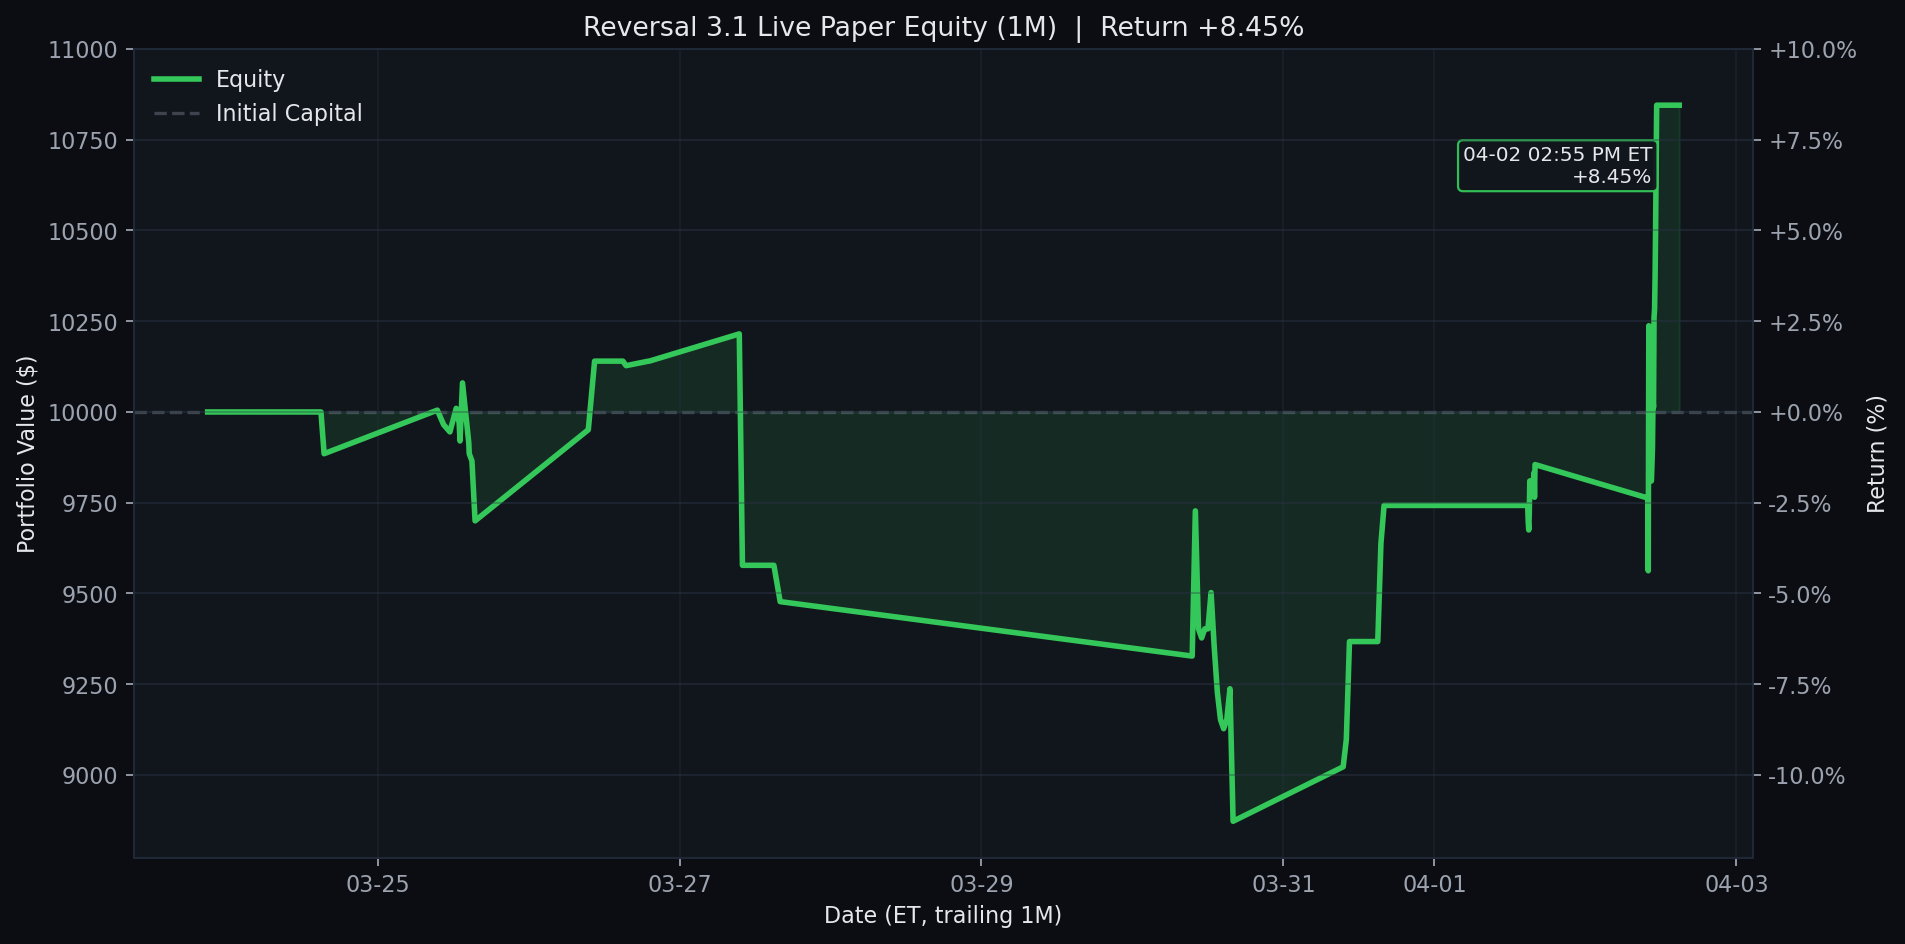
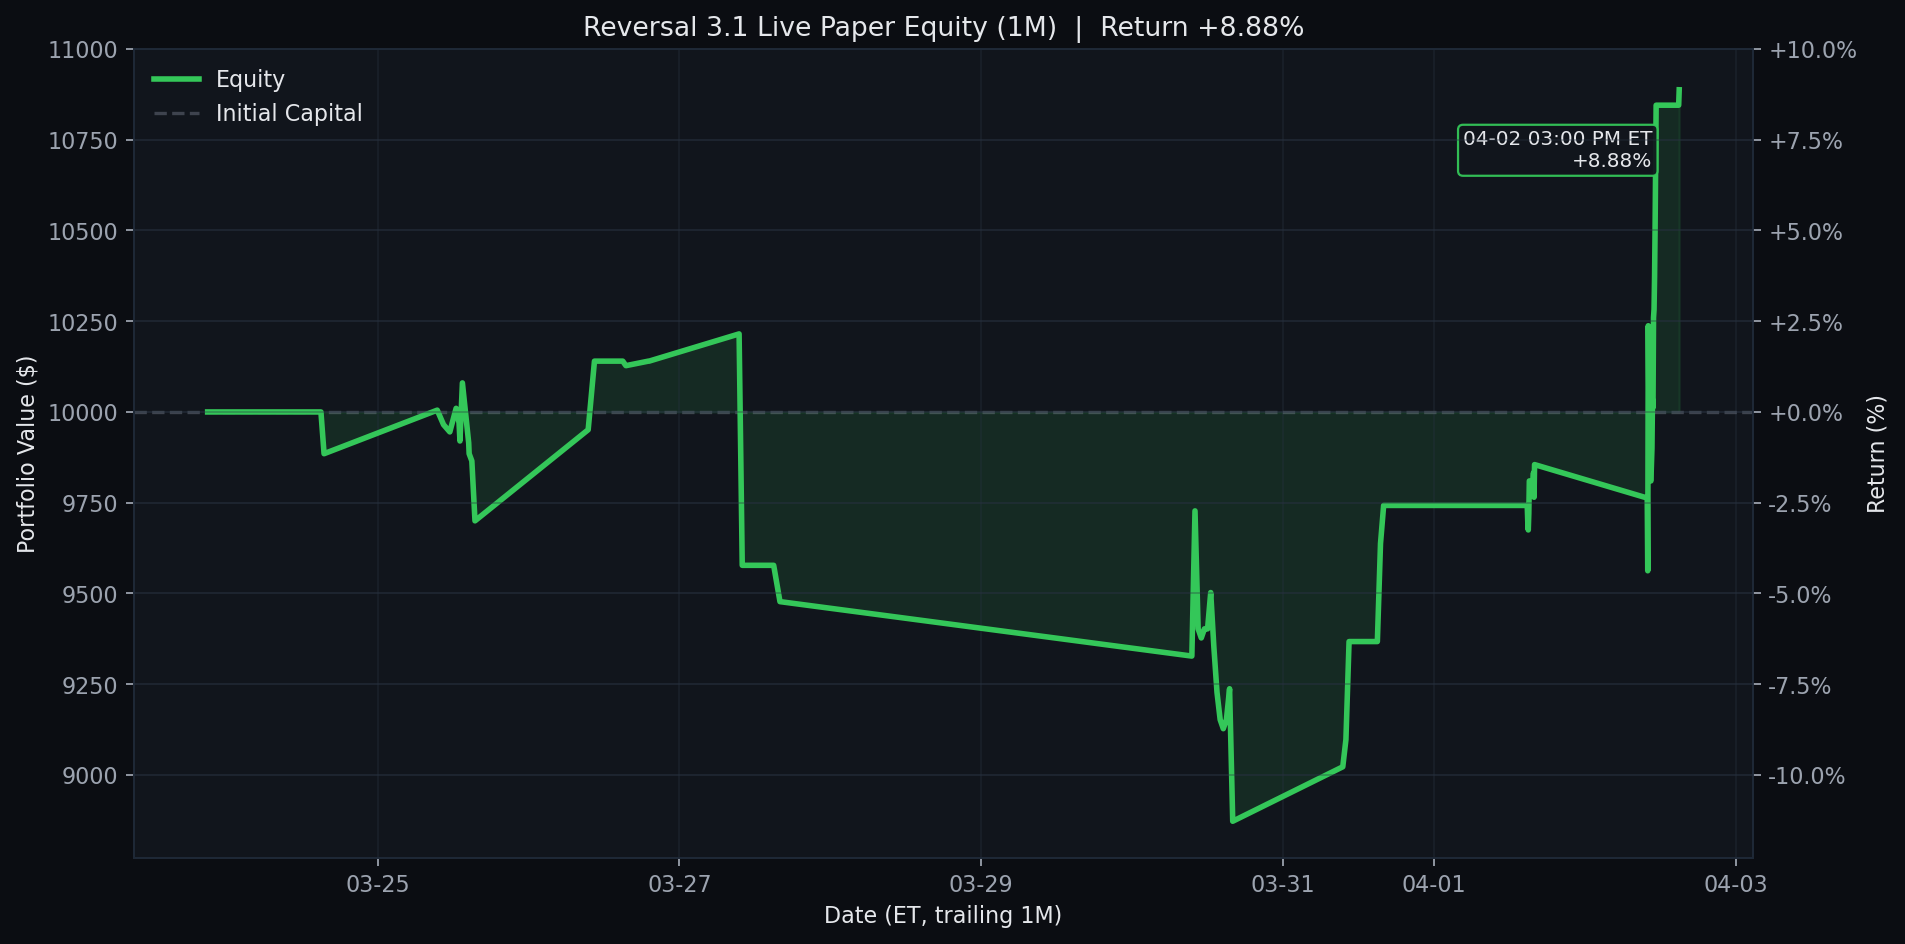
Update Reversal 3.1 live paper test 2026-04-02 15:00 ET

diff --git a/results/reversal_3_1_live/README.md b/results/reversal_3_1_live/README.md
@@ -1,6 +1,6 @@
 # Reversal 3.1 Live Paper Test
 
-Last updated (ET): `2026-04-02 14:55:05 EDT`
+Last updated (ET): `2026-04-02 15:00:05 EDT`
 Last processed slot: `entry_1500`
 
 ## Active Configuration
@@ -20,16 +20,16 @@ Last processed slot: `entry_1500`
 ## Portfolio Snapshot
 
 - Cash: `$8,102.50`
-- Equity: `$10,845.00`
+- Equity: `$10,887.50`
 - Realized PnL: `$845.00`
-- Unrealized PnL: `$0.00`
+- Unrealized PnL: `$42.50`
 - Open positions: `1`
 
 ## Open Positions
 
 ```text
 ticker    contract_symbol entry_trade_date  business_days_held  entry_option_price  current_option_price  entry_spot  current_spot  unrealized_pnl  unrealized_return_pct  success_rate  matched_signals  current_drop_pct  entry_iv_pct  current_iv_pct  rolling_sigma_20d_pct
-   WDC WDC260501C00295000       2026-04-02                   0               27.42                 27.42      294.77        294.87             0.0                    0.0         97.22               36              0.99         81.84            81.9                  91.06
+   WDC WDC260501C00295000       2026-04-02                   0               27.42                 27.85      294.77        294.77            42.5                   1.55         97.22               36              0.99         81.84           83.11                  91.06
 ```
 
 ## Today's Closed Trades (2026-04-02)
@@ -43,24 +43,25 @@ ticker     contract_symbol entry_trade_date_et exit_trade_date_et  entry_option_
 
 ```text
 ticker  success_rate_%  matched_signals  current_drop_%  target_rebound_$  target_price  rolling_sigma_20d_%  call_candidate
-   WDC           97.22               36            0.96              2.00        296.87                91.06            True
-  ASML           91.67               12            3.18             30.28       1346.78                52.01            True
-  CDNS           90.48               42            0.96              1.88        279.38                26.25            True
-  DXCM           90.48               42            0.96              0.42         62.19                31.67            True
-   MAR           89.19               37            0.61              1.43        332.85                28.45            True
-  GILD           88.46               26            0.68              0.66        140.02                21.47            True
-  FAST           86.96               23            1.30              0.42         46.45                21.97            True
-  KLAC           85.71               35            0.94              9.99       1515.56                56.48            True
+   WDC           97.22               36            0.99              2.07        296.84                91.06            True
+  MPWR           91.89               37            0.55              4.32       1117.66                56.57            True
+  ASML           91.67               12            3.18             30.30       1346.78                52.01            True
+  DXCM           90.70               43            0.88              0.39         62.20                31.67            True
+  CDNS           90.48               42            0.93              1.83        279.41                26.25            True
+  ORLY           90.24               41            0.52              0.34         91.96                22.81            True
+  FAST           89.66               29            0.88              0.29         46.51                21.97            True
+   MAR           88.89               36            0.72              1.68        332.74                28.45            True
+  GILD           88.46               26            0.73              0.71        139.99                21.47            True
+  KLAC           87.50               32            1.09             11.58       1514.88                56.48            True
    WBD           85.71               35            0.53              0.10         27.45                11.93            True
-   CSX           85.00               20            0.89              0.26         41.33                27.84            True
- GOOGL           84.21               38            0.64              1.33        296.82                35.66            True
-  AMAT           83.87               31            1.42              3.51        352.30                59.65            True
+   CSX           85.71               21            0.74              0.21         41.35                27.84            True
 ```
 
 ## Recent Events
 
 ```text
                     timestamp_et        slot   event_type                                                                                                                                                                           detail
+2026-04-02T15:00:05.892985-04:00  entry_1500 slot_skipped                                                                                                                                                  {"reason": "already_processed"}
 2026-04-02T14:55:05.878211-04:00  entry_1500 slot_skipped                                                                                                                                                  {"reason": "already_processed"}
 2026-04-02T14:50:05.884978-04:00  entry_1500        entry {"allocated_cash": 2742.5, "contract_symbol": "WDC260501C00295000", "contracts": 1, "entry_option_price": 27.425, "matched_signals": 36, "success_rate": 97.22, "ticker": "WDC"}
 2026-04-02T14:40:05.911687-04:00 manage_1430 slot_skipped                                                                                                                                                  {"reason": "already_processed"}
@@ -70,7 +71,6 @@ ticker  success_rate_%  matched_signals  current_drop_%  target_rebound_$  targe
 2026-04-02T14:10:05.893357-04:00 manage_1400 slot_skipped                                                                                                                                                  {"reason": "already_processed"}
 2026-04-02T14:05:05.889867-04:00 manage_1400 slot_skipped                                                                                                                                                  {"reason": "already_processed"}
 2026-04-02T14:00:05.896681-04:00 manage_1400 slot_skipped                                                                                                                                                  {"reason": "already_processed"}
-2026-04-02T13:55:05.905247-04:00 manage_1400 slot_skipped                                                                                                                                                  {"reason": "already_processed"}
 ```
 
 ## Equity Curves

diff --git a/README.md b/README.md
@@ -3,8 +3,8 @@
 <!-- reversal-3.1-live:start -->
 ## Reversal 3.1 Live Paper Test
 
-- Last updated (ET): `2026-04-02 14:55:05 EDT`
-- Equity: `$10,845.00` | Realized: `$845.00` | Unrealized: `$0.00` | Open positions: `1`
+- Last updated (ET): `2026-04-02 15:00:05 EDT`
+- Equity: `$10,887.50` | Realized: `$845.00` | Unrealized: `$42.50` | Open positions: `1`
 - Today closed trades: `1`
 - Current slot: `entry_1500`
 - Universe: `qqq_plus_leverage_etfs`
@@ -14,7 +14,7 @@
 
 ```text
 ticker    contract_symbol  current_option_price  unrealized_pnl  unrealized_return_pct  business_days_held
-   WDC WDC260501C00295000                 27.42             0.0                    0.0                   0
+   WDC WDC260501C00295000                 27.85            42.5                   1.55                   0
 ```
 
 <details>
